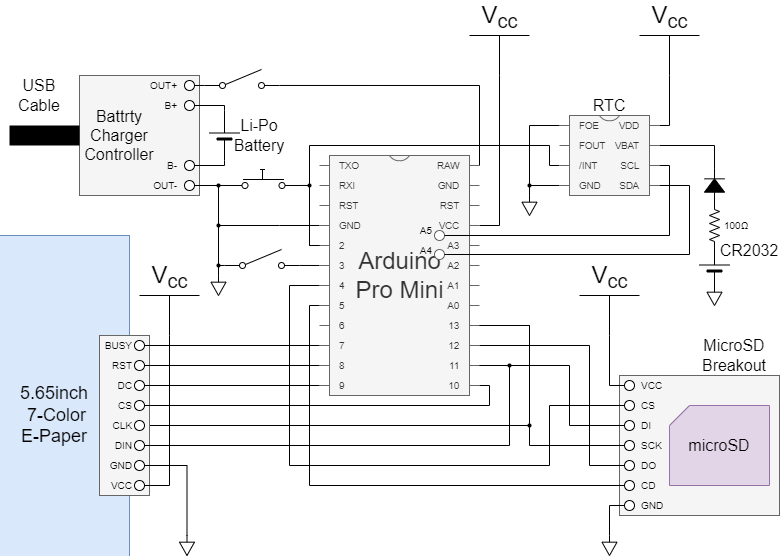
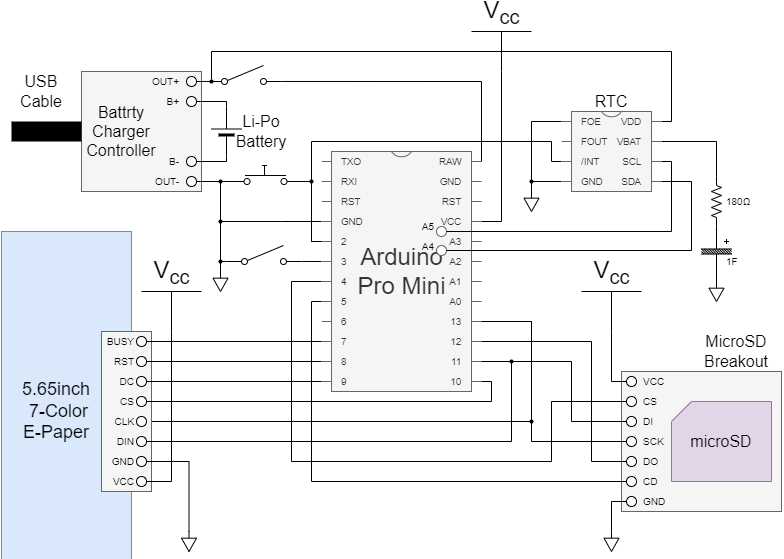
:memo: Update the schematic

diff --git a/README.md b/README.md
@@ -79,8 +79,8 @@ The order of images to display depends on the algorythm of file scanning in Ardu
 * [RTC module](https://akizukidenshi.com/catalog/g/gK-13009/)
 * [MicroSD breakout board](https://www.sparkfun.com/products/13743)
 * [Battery charger controller module](https://www.aitendo.com/product/19267)
-* Li-Po battery and CR2032
-* A 100&ohm; resistor, a diode, a tactile switch and a slide switch (2 circuits)
+* A Li-Po battery
+* A 180&ohm; resistor, a 1F electrolytic capacitor, a tactile switch and a slide switch (2 circuits)
 * Connectors, wires, etc...
 
 ### Schematic

diff --git a/README_ja.md b/README_ja.md
@@ -79,8 +79,8 @@ OK
 * [RTC モジュール](https://akizukidenshi.com/catalog/g/gK-13009/)
 * [MicroSD ブレイクアウトボード](https://www.sparkfun.com/products/13743)
 * [充電昇圧一体化モジュール](https://www.aitendo.com/product/19267)
-* Li-Po 充電池と CR2032 ボタン電池
-* 抵抗 100&ohm;、ダイオード、タクトスイッチ、スライドスイッチ(2回路)
+* Li-Po 充電池
+* 抵抗 180&ohm;、電解コンデンサ 1F、タクトスイッチ、スライドスイッチ(2回路)
 * コネクタ、線材、など
 
 ### 回路図
